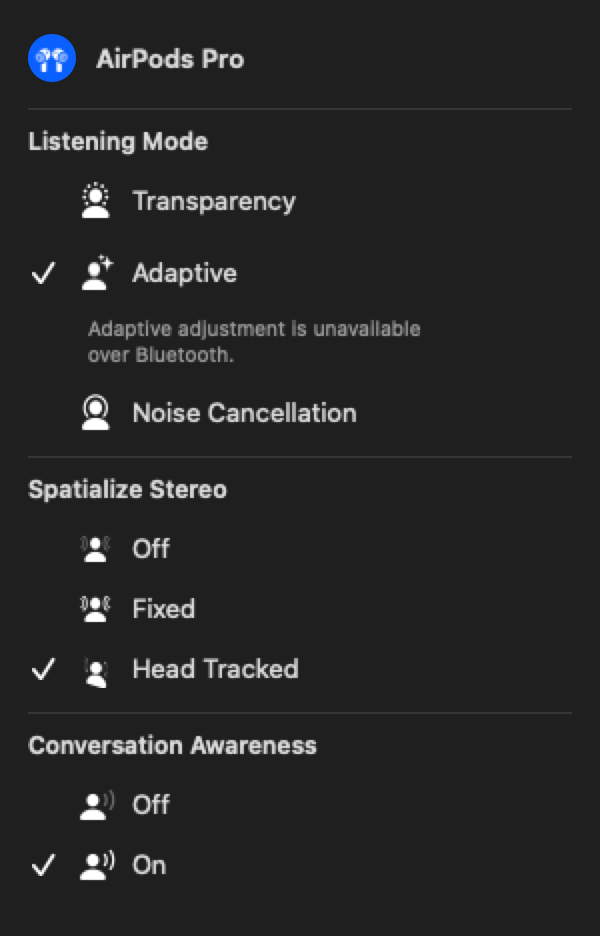
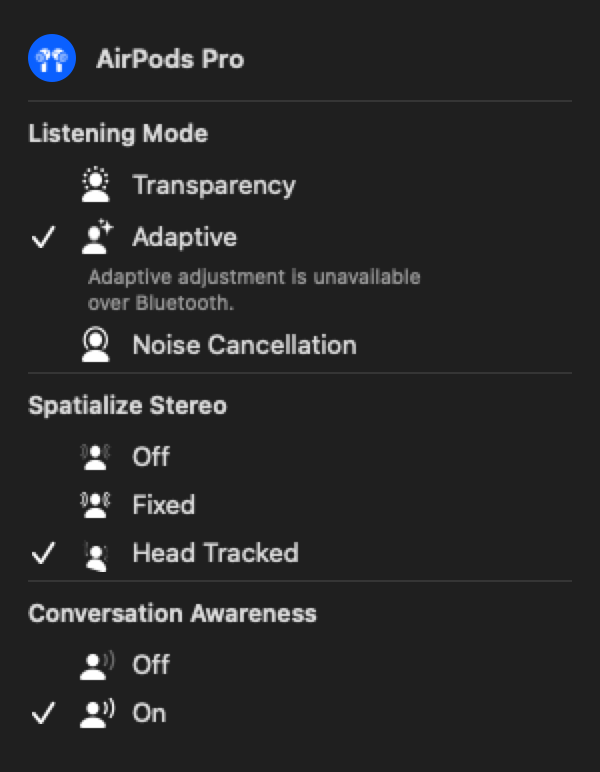
Tighten inline AirPods menu spacing

diff --git a/Sources/StatusTrioCore/UI/AirPodsSystemControlsView.swift b/Sources/StatusTrioCore/UI/AirPodsSystemControlsView.swift
@@ -261,7 +261,7 @@ struct AirPodsSystemControlsView: View {
     @State private var adaptiveDraft: Double = 50
 
     var body: some View {
-        VStack(alignment: .leading, spacing: 8) {
+        VStack(alignment: .leading, spacing: 2) {
             if let listeningMode, listeningMode.isControllable {
                 Divider()
                 heading(.bluetoothListeningModeGroup)
@@ -304,12 +304,14 @@ struct AirPodsSystemControlsView: View {
             }
 
         }
-        .padding(.vertical, 8)
+        .padding(.vertical, 4)
         .onDisappear { model.stop() }
     }
 
     private func heading(_ key: LocalizationKey) -> some View {
         Text(localization.string(key)).font(.callout.weight(.semibold))
+            .padding(.top, 6)
+            .padding(.bottom, 4)
     }
 
     @ViewBuilder private var adaptiveControl: some View {
@@ -339,7 +341,7 @@ struct AirPodsSystemControlsView: View {
 
     private func options(_ values: [AirPodsSystemOption], group: AirPodsSystemControls.Group,
                          symbol: String) -> some View {
-        VStack(alignment: .leading, spacing: 2) {
+        VStack(alignment: .leading, spacing: 0) {
             if values.isEmpty && !(model.snapshot.loaded || (group == .spatial ? model.snapshot.spatialLoaded : model.snapshot.conversationLoaded)) {
                 loadingIndicator.padding(.leading, 30)
             } else if values.isEmpty {
@@ -378,7 +380,7 @@ struct AirPodsSystemControlsView: View {
                 Spacer(minLength: 0)
             }
             .font(.body)
-            .padding(.vertical, 4)
+            .padding(.vertical, 2)
             .contentShape(Rectangle())
         }
         .buttonStyle(.plain)
